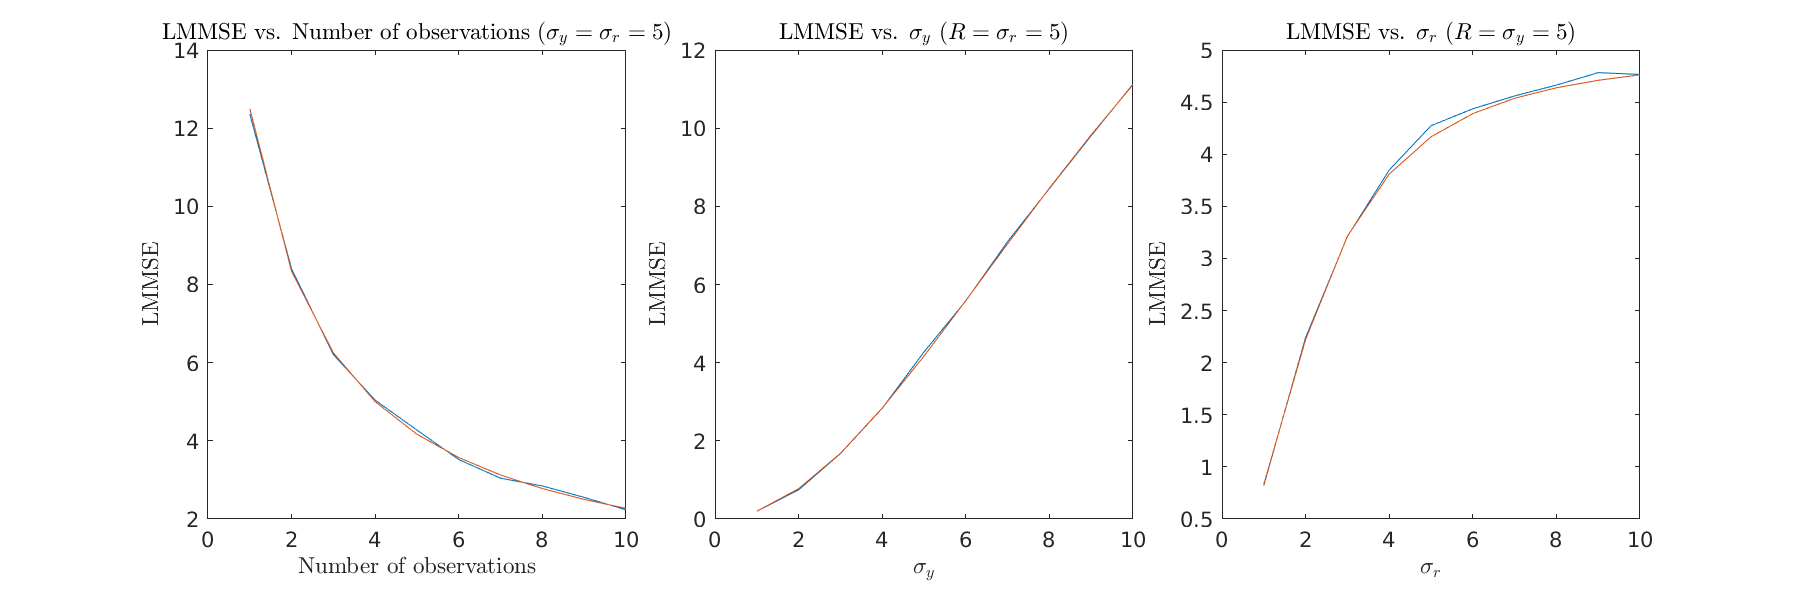
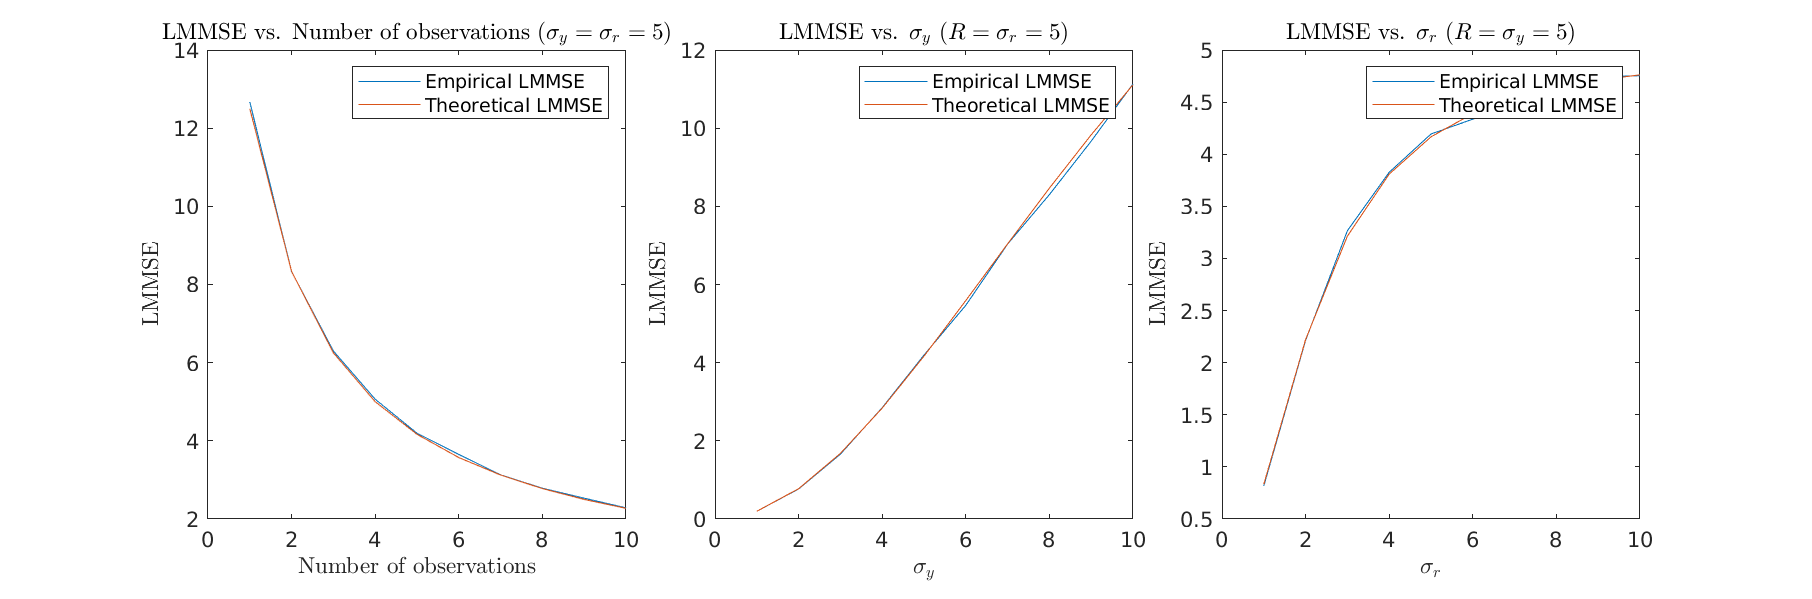
added legends in second plot

diff --git a/proj2/proj2.m b/proj2/proj2.m
@@ -100,6 +100,7 @@ plot(Rs, mvr(:,1), Rs, mvr(:,2));
 xlabel('Number of observations');
 ylabel('LMMSE');
 title('LMMSE vs. Number of observations ($$\sigma_y=\sigma_r=5$$)');
+legend({'Empirical LMMSE', 'Theoretical LMMSE'});
 % plot MSE vs sig_y
 nexttile();
 mvsy = reshape(res(5, :, 5, :), [], 2);
@@ -107,6 +108,7 @@ plot(sig_ys, mvsy(:,1), sig_ys, mvsy(:,2));
 xlabel('$$\sigma_y$$');
 ylabel('LMMSE');
 title('LMMSE vs. $$\sigma_y$$ ($$R=\sigma_r=5$$)');
+legend({'Empirical LMMSE', 'Theoretical LMMSE'});
 % plot MSE vs sig_r
 nexttile();
 mvsr = reshape(res(5, 5, :, :), [], 2);
@@ -114,6 +116,7 @@ plot(sig_rs, mvsr(:,1), sig_rs, mvsr(:,2));
 xlabel('$$\sigma_r$$');
 ylabel('LMMSE');
 title('LMMSE vs. $$\sigma_r$$ ($$R=\sigma_y=5$$)');
+legend({'Empirical LMMSE', 'Theoretical LMMSE'});
 
 % displaying results in a table
 res = reshape(res, [], 2);
